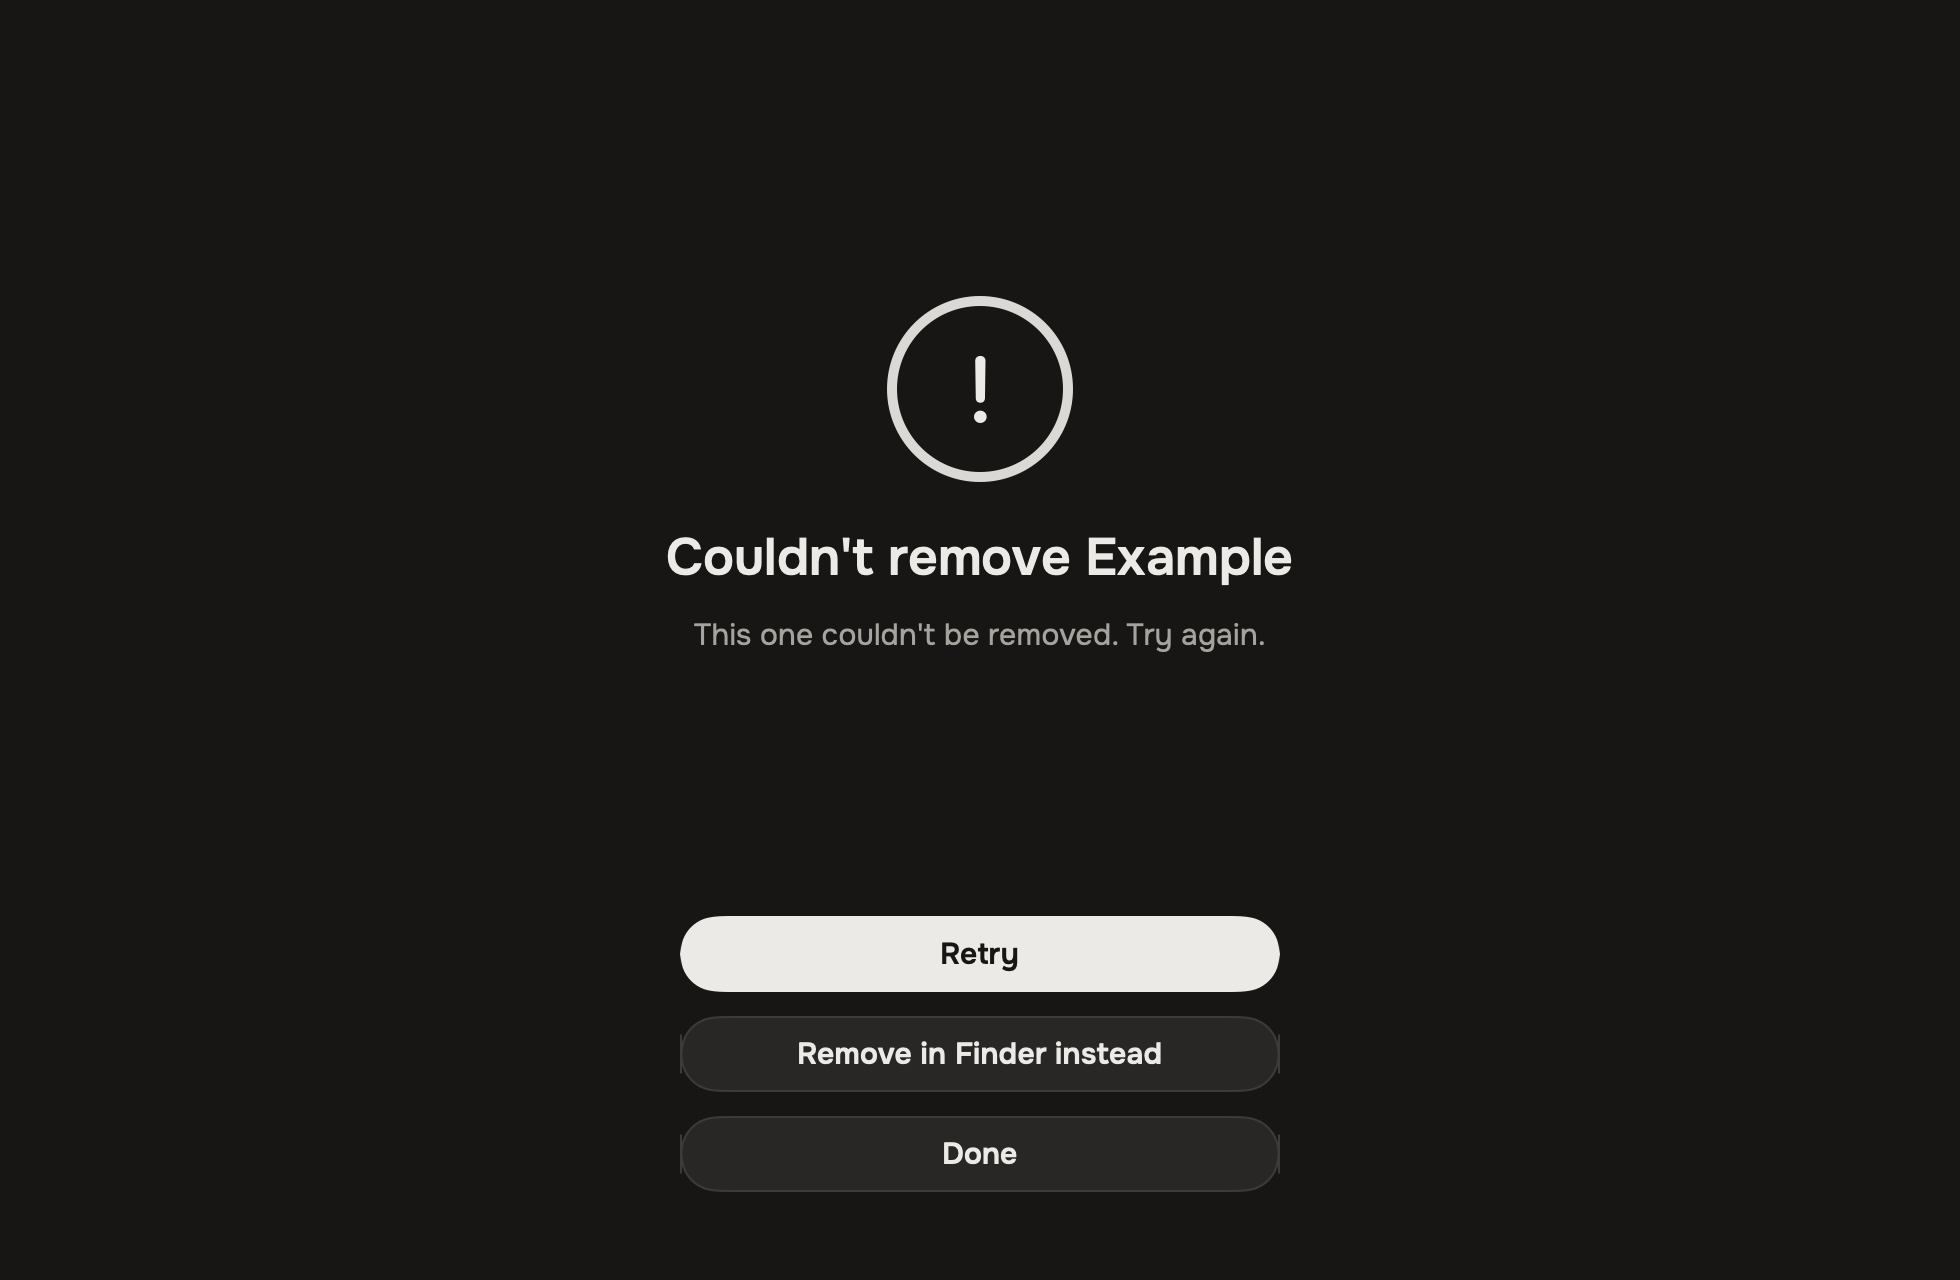
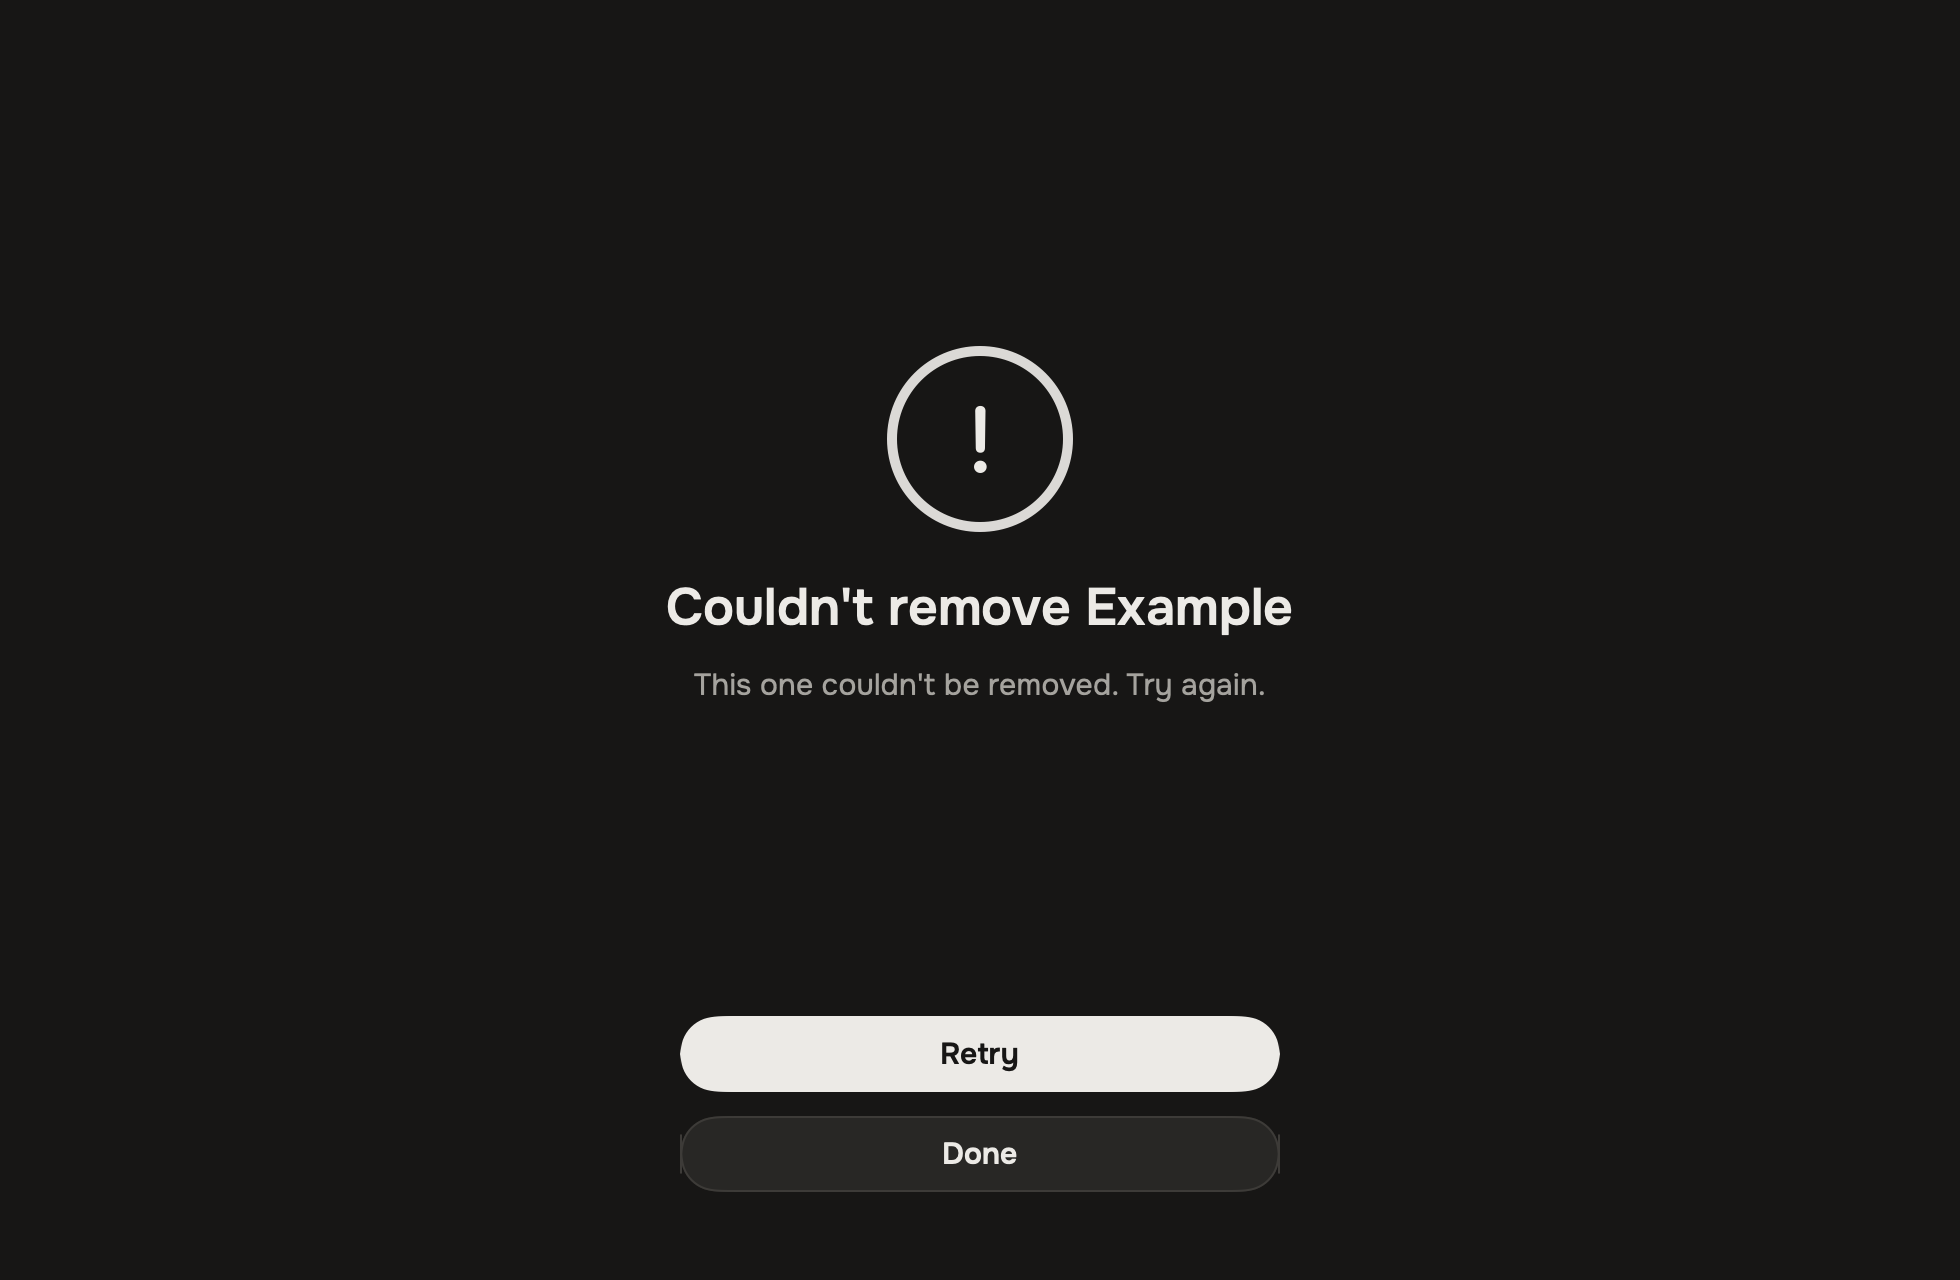
fix: keep a held app's failure screen to two buttons (#299)
A single held app that Retry may move showed Retry, Remove in Finder
instead and Done. The footer goes back to Retry and Done, as every other
one-item failure has. Remove in Finder instead stays only where there is
nothing to retry, a standard account, so that screen has two buttons too.
The card rows for several apps keep their Show in Finder.

Changed region(s): [[0.3423, 0.2188, 0.6536, 0.5625], [0.3423, 0.7188, 0.6536, 0.875]]

diff --git a/purge/Views/AppChrome.swift b/purge/Views/AppChrome.swift
@@ -939,14 +939,6 @@ struct SafeCleanupCelebrationOverlay: View {
             .keyboardShortcut(.defaultAction)
             .disabled(!footerVisible || !retryingFailureIDs.isEmpty)
 
-            // A held app that Retry may not move can still go in Finder, as the
-            // setup panel offers too (#299).
-            if case .retry(let item) = footerAction, item.offersFinderRemoval {
-                Button("Remove in Finder instead") { showFailureInFinder(item) }
-                    .buttonStyle(.purge(.secondary, size: .large, width: .fixed(300)))
-                    .disabled(!footerVisible)
-            }
-
             Button(LocalizedStringKey(doneTitle), action: onDone)
                 .buttonStyle(.purge(.secondary, size: .large, width: .fixed(300)))
                 .keyboardShortcut(.cancelAction)
